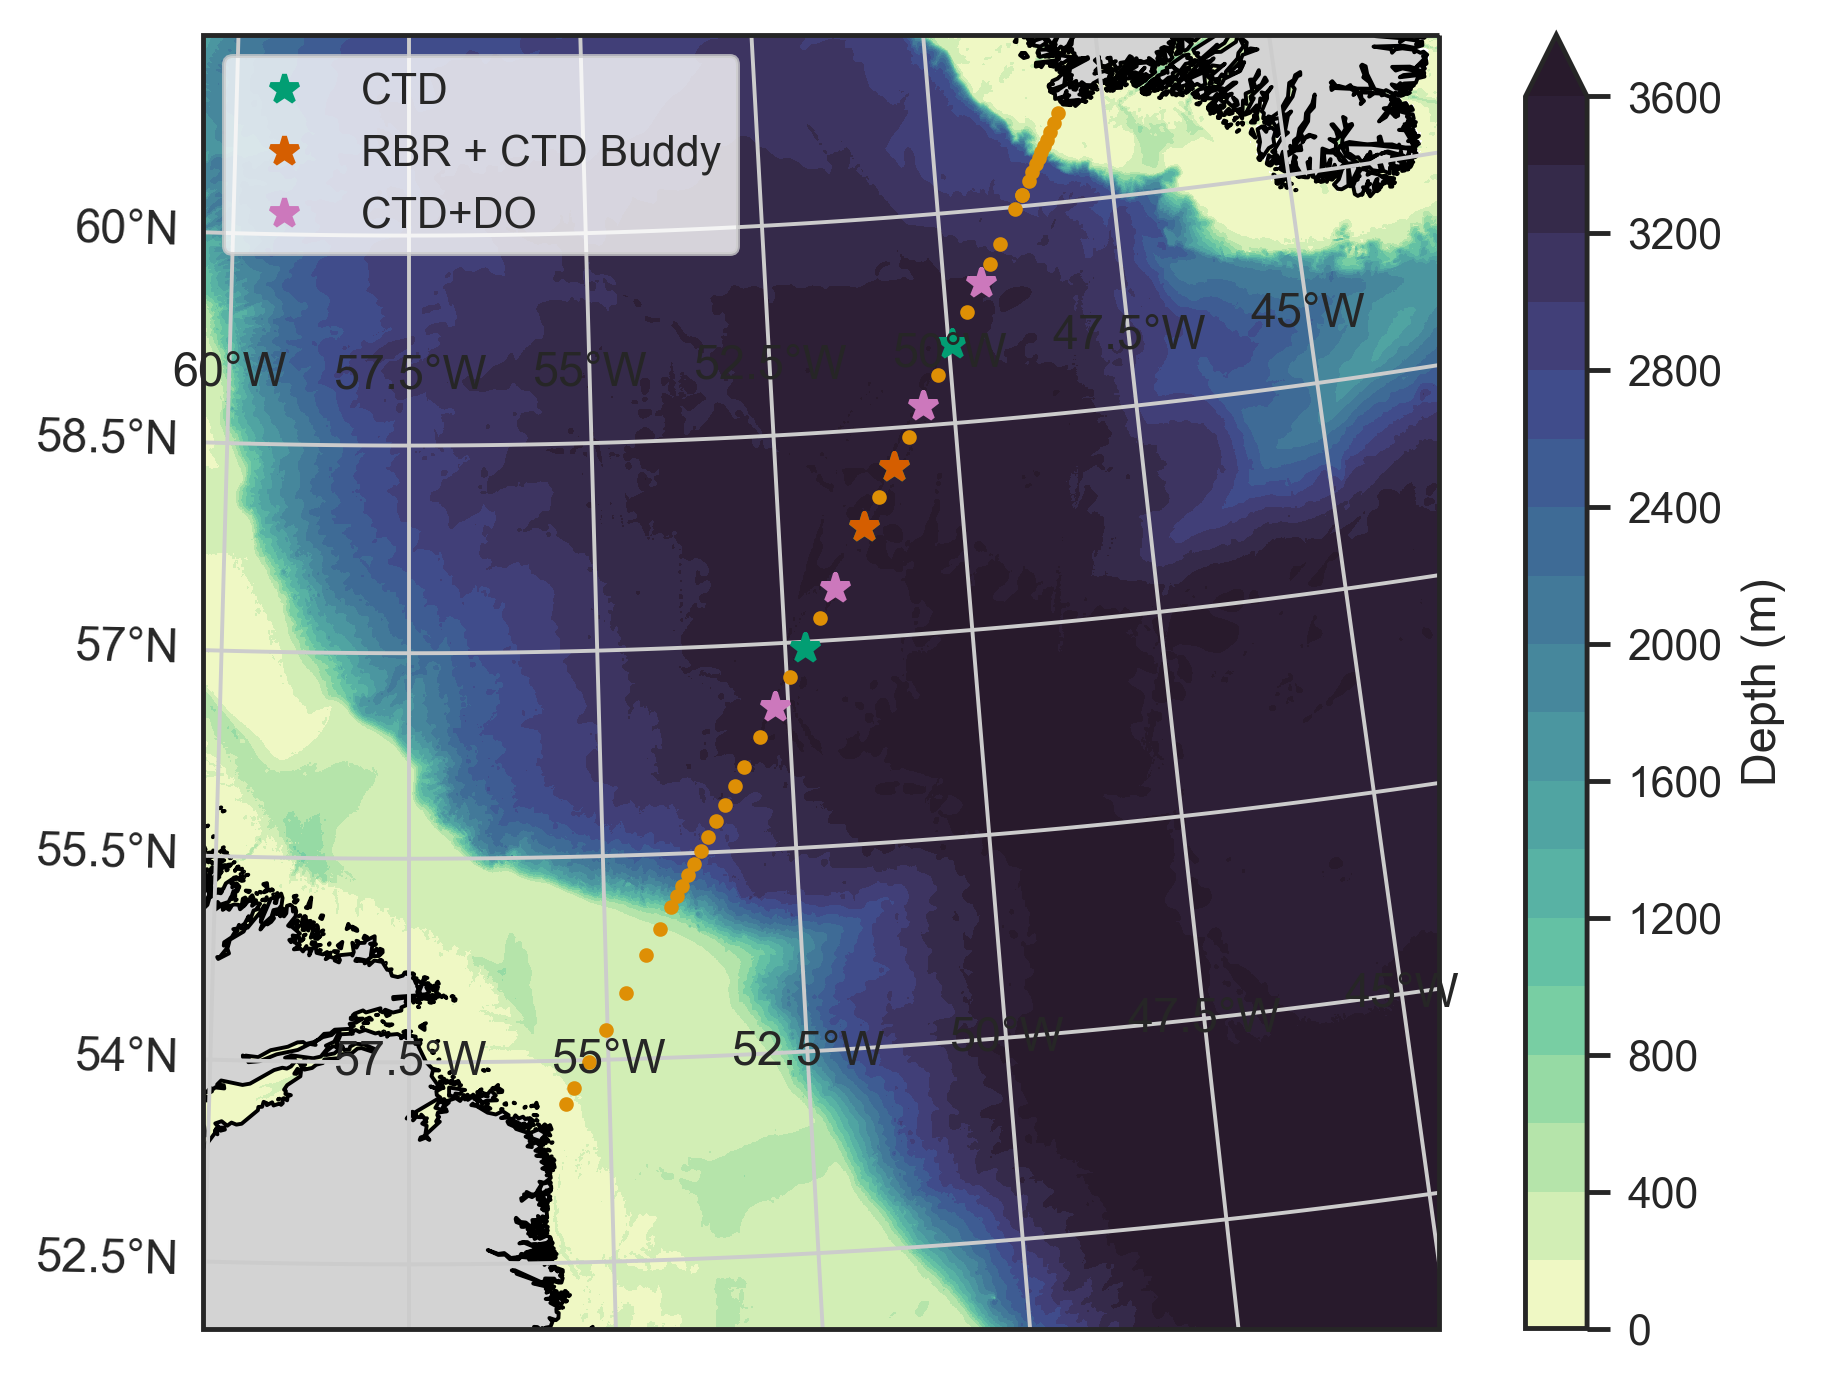
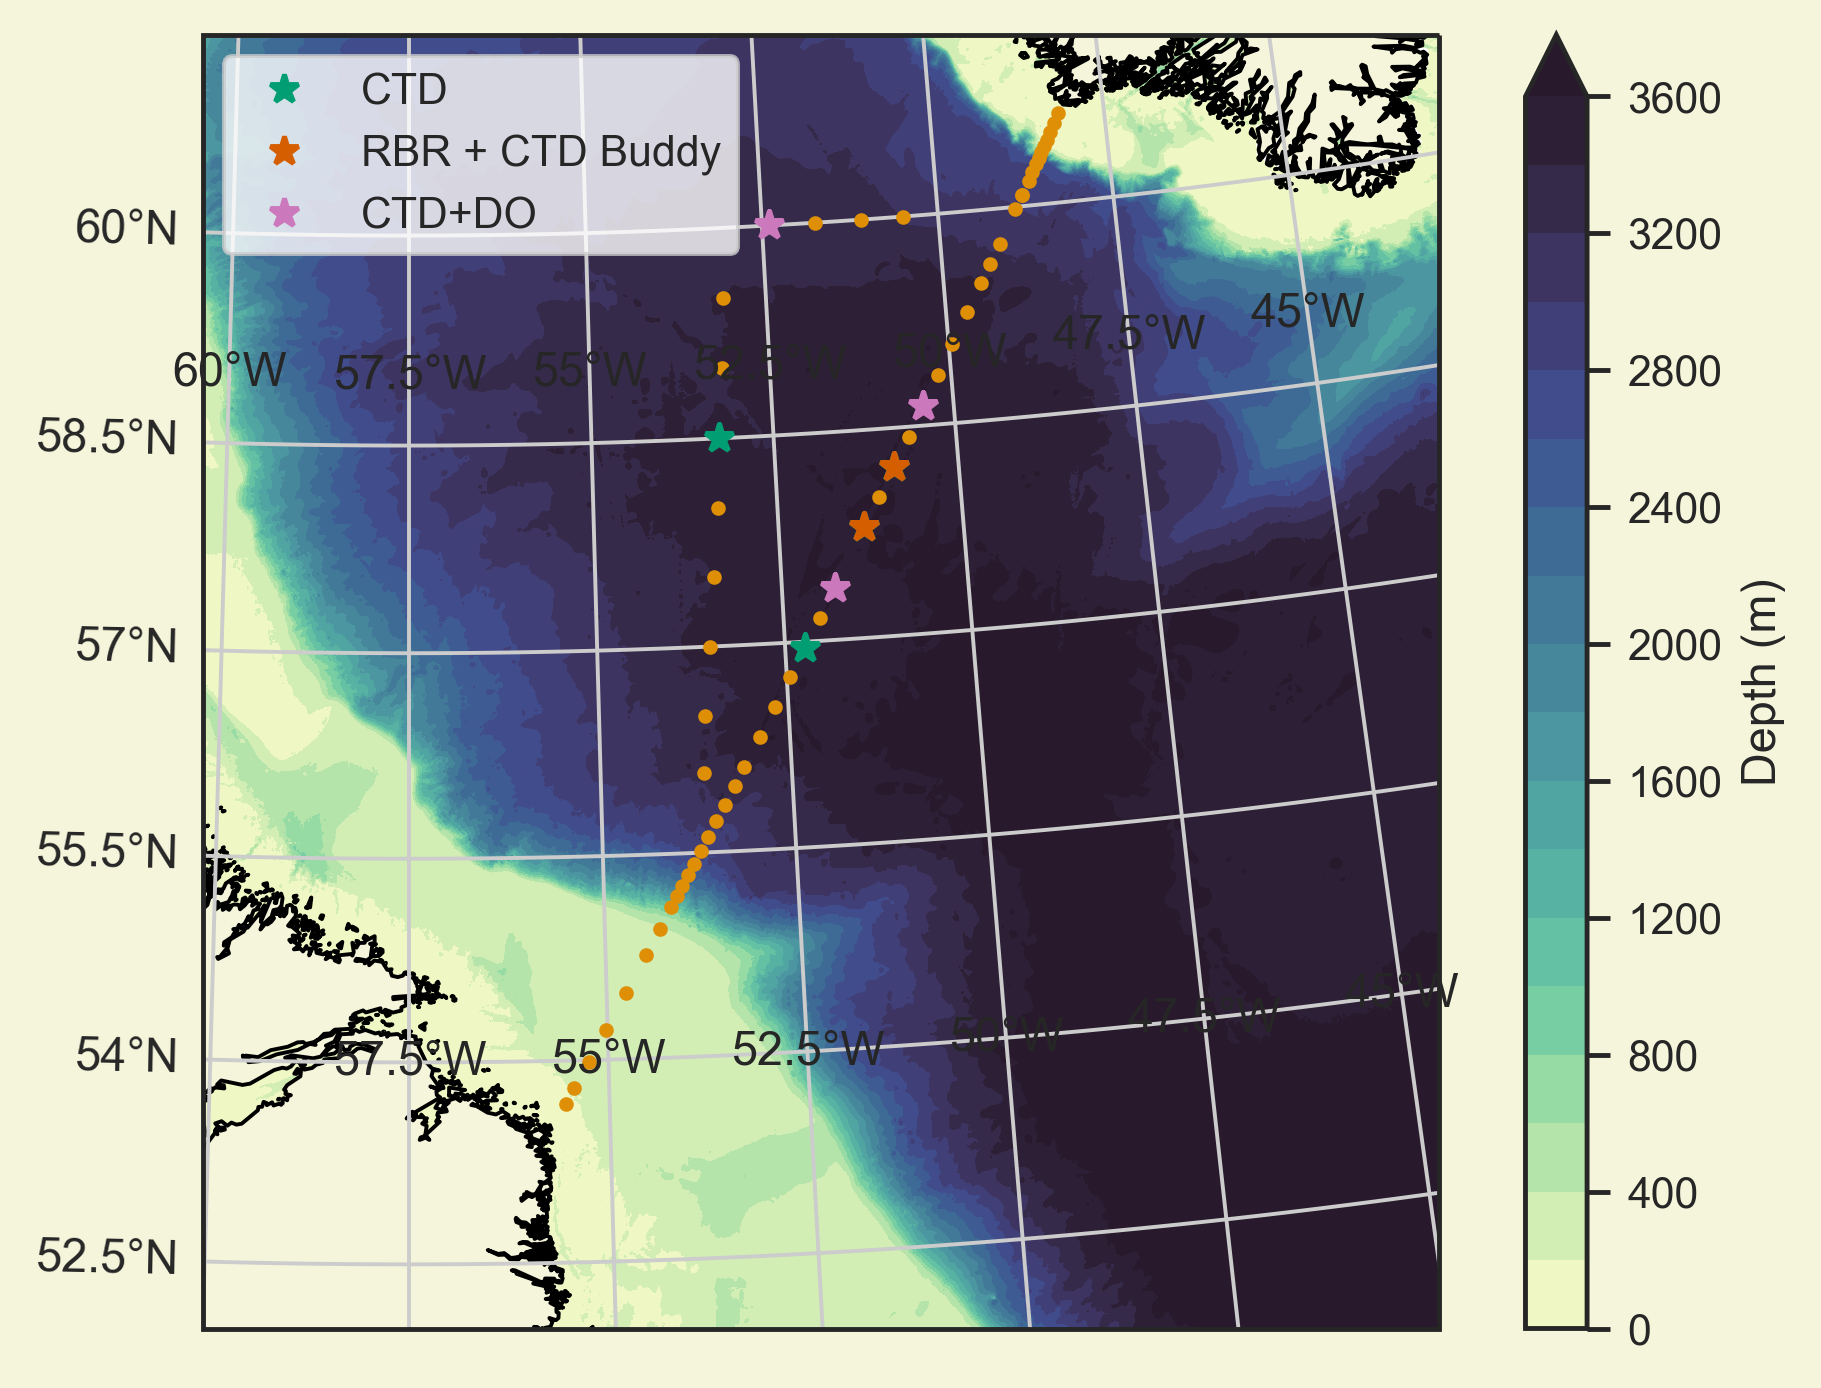
move east to include nfld deployments

diff --git a/src/azmp_azomp_deployment_plan.py b/src/azmp_azomp_deployment_plan.py
@@ -16,7 +16,7 @@ import cartopy.feature as cfeature
 from cartopy.mpl.ticker import LongitudeFormatter, LatitudeFormatter
 
 # define rectangle around atlantic canada
-atl = [-68, -48, 40, 62]
+atl = [-68, -42, 40, 62]
 # choose projection/transform
 projection = ccrs.LambertConformal(central_latitude=50, central_longitude=-57.5)
 transform = ccrs.PlateCarree()
@@ -26,10 +26,10 @@ azmp = pd.read_csv(Path('../data/azmpStationsCore.txt'))
 ar7w = pd.read_csv(Path('../data/AZOMP_AR7W_stn.csv'))
 
 # create figure, add coastlines
-fig = plt.figure()
+fig = plt.figure(facecolor='beige')
 ax = fig.add_subplot(projection=projection)
 ax.set_extent(atl)
-ax.add_feature(cfeature.GSHHSFeature('intermediate', edgecolor='black', facecolor='lightgray'))
+ax.add_feature(cfeature.GSHHSFeature('intermediate', edgecolor='black', facecolor='beige'))
 
 # get bathymetry
 bath_file = Path('/Users/GordonC/Documents/data/GEBCO/GEBCO_2020.nc')
@@ -54,19 +54,21 @@ im = ax.contourf(
     cmap=cmo.deep,
     vmin=0, extend='max'
 )
-plt.colorbar(im, ax=ax, orientation='vertical', label='Depth (m)')
+cb = plt.colorbar(im, ax=ax, orientation='vertical', label='Depth (m)')
+cb.ax.set_facecolor(fig.get_facecolor())
 
 # plot stations
 ms = 2
 ax.plot(azmp.longitude, azmp.latitude, 'o', transform=transform, markersize=ms, label=None)
 ax.plot(ar7w.lon_dd, ar7w.lat_dd, 'o', transform=transform, markersize=ms, label=None)
 
-rbr_lats = [41.414172, 57.800000, 58.216667]
-rbr_lons = [-60.664633, -51.340000, -50.883333]
-core_lats = rbr_lats + [43.783300, 41.776870,  56.956667, 59.066667]
-core_lons = rbr_lons + [-57.833300, -60.906963,  -52.236667, -49.950000]
-bgc_lats = [42.475000, 42.026080, 43.473300, 57.376667, 58.640000, 56.536667, 59.483333]
-bgc_lons = [-61.433300, -61.068143, -57.526700, -51.791667, -50.416667, -52.678333, -49.475000]
+deploy = pd.read_csv(Path('../data/deployment-plan-spring-2022.csv'))
+rbr_lats = deploy.Latitude[deploy.Model == 'ARVOR-I-RBR']
+rbr_lons = deploy.Longitude[deploy.Model == 'ARVOR-I-RBR']
+core_lats = deploy.Latitude[deploy.Model == 'ARVOR-I']
+core_lons = deploy.Longitude[deploy.Model == 'ARVOR-I']
+bgc_lats = deploy.Latitude[deploy.Model == 'ARVOR-I+O2']
+bgc_lons = deploy.Longitude[deploy.Model == 'ARVOR-I+O2']
 
 ms = 6
 ax.plot(core_lons, core_lats, '*', label='CTD', markersize=ms, transform=transform)
@@ -82,13 +84,16 @@ gl.right_labels = False
 gl.xformatter = lon_formatter
 gl.yformatter = lat_formatter
 
-# ns = [-68, -56, 40, 51]
-# ax.set_extent(ns)
+ns = [-68, -56, 40, 51]
+ax.set_extent(ns)
 
 # lab_sea = [-60, -45, 52, 61]
 # ax.set_extent(lab_sea)
 
 # save fig
-fig.savefig(Path('../figures/azmp_azomp_deployments_2022.png'), dpi=350, bbox_inches='tight')
-
+fig.savefig(
+    Path('../figures/azmp_azomp_deployments_2022_ns.png'), 
+    dpi=350, bbox_inches='tight', facecolor=fig.get_facecolor(),
+    edgecolor=None
+)
 plt.show()
